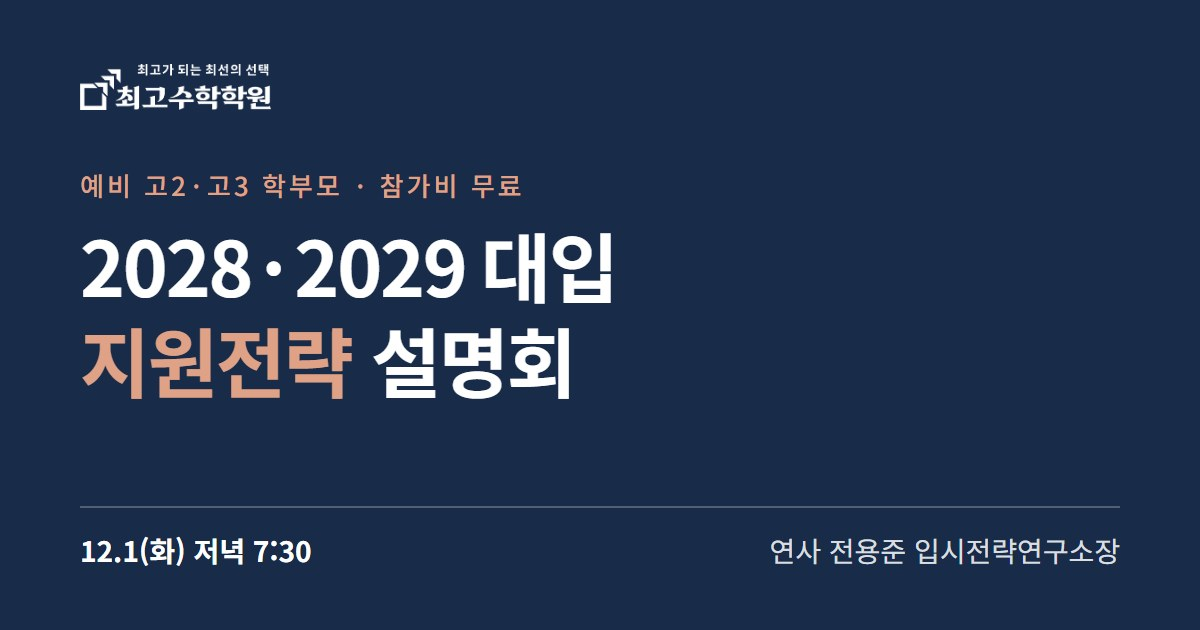
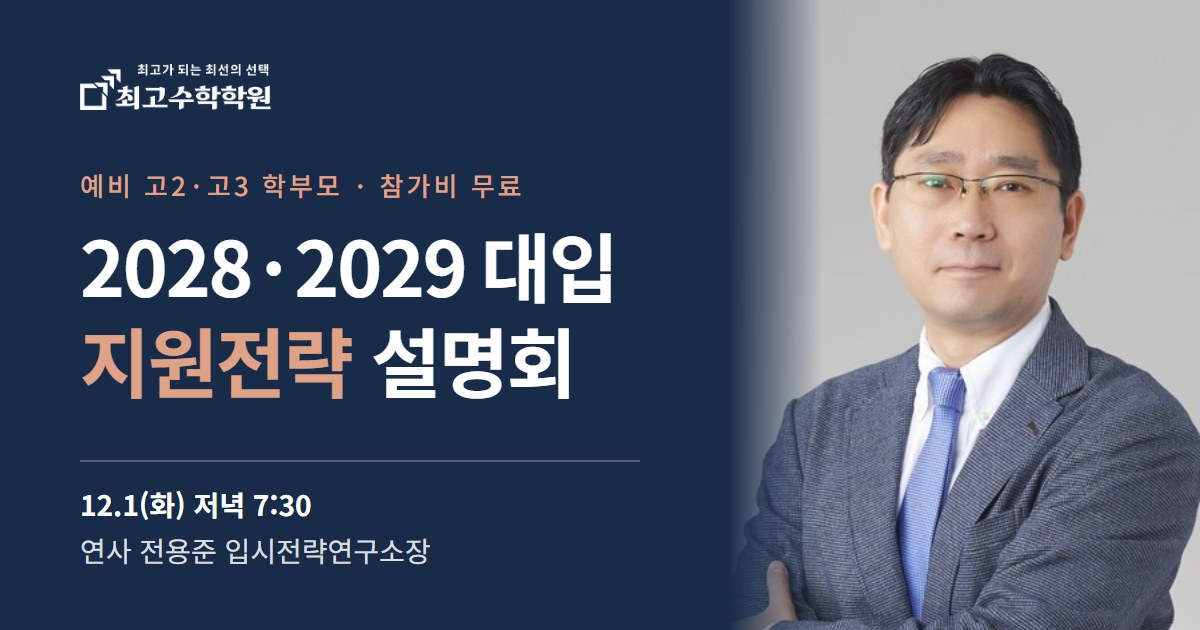
college-briefing: 연사 사진 카드·미리보기 이미지 추가

diff --git a/college-briefing/index.html b/college-briefing/index.html
@@ -9,7 +9,7 @@
 <meta property="og:title" content="2028·2029 대입지원전략 설명회 · 참석 신청">
 <meta property="og:description" content="예비 고2·고3 학부모 대상 · 12/1(화) 저녁 7:30 · 참가비 무료 · 송도 최고수학학원">
 <meta property="og:url" content="https://best-eight-gold.vercel.app/college-briefing/">
-<meta property="og:image" content="https://best-eight-gold.vercel.app/college-briefing/og.jpg?v=20261106">
+<meta property="og:image" content="https://best-eight-gold.vercel.app/college-briefing/og.jpg?v=20261106b">
 <meta property="og:image:width" content="1200">
 <meta property="og:image:height" content="630">
 <meta name="twitter:card" content="summary_large_image">
@@ -50,10 +50,16 @@ h2{font-size:21px;font-weight:700;letter-spacing:-.5px;margin-top:6px}
 .why p{font-size:14px;color:var(--sub);margin-top:4px}
 
 /* 연사 */
-.spk{margin-top:16px;border-top:1px solid var(--navy);border-bottom:1px solid var(--line);padding:18px 0}
-.spk .nm{font-size:20px;font-weight:700;letter-spacing:-.5px}
-.spk .nm span{font-size:14px;font-weight:500;color:var(--sub);margin-left:6px}
-.spk ul{list-style:none;margin-top:10px;font-size:14px}
+.spk{margin-top:16px}
+.spk .card{display:flex;align-items:stretch;background:var(--navy);color:#fff;overflow:hidden}
+.spk .txt{flex:1;min-width:0;padding:22px 0 20px 20px;display:flex;flex-direction:column;justify-content:flex-end}
+.spk .txt .role{font-size:13px;font-weight:500;color:var(--accent);letter-spacing:.5px;white-space:nowrap}
+.spk .nm{font-size:32px;font-weight:700;letter-spacing:-1px;line-height:1.2;margin-top:4px;white-space:nowrap}
+.spk .bar{width:28px;height:3px;background:var(--accent);margin-bottom:auto}
+.spk .txt p.s{font-size:13px;color:rgba(255,255,255,.7);margin-top:10px}
+.spk figure{width:44%;max-width:210px;flex-shrink:0;align-self:flex-end;line-height:0}
+.spk figure img{width:100%;height:auto;display:block;aspect-ratio:354/472;object-fit:cover;-webkit-mask-image:linear-gradient(to left,#000 82%,transparent);mask-image:linear-gradient(to left,#000 82%,transparent)}
+.spk ul{list-style:none;font-size:14px;border-bottom:1px solid var(--line);padding:14px 0}
 .spk li{display:flex;gap:10px;padding:3px 0}
 .spk li i{font-style:normal;flex-shrink:0;width:30px;font-size:12px;font-weight:700;color:var(--navy);background:var(--sky);text-align:center;height:22px;line-height:22px;margin-top:1px}
 
@@ -163,7 +169,15 @@ footer a{color:var(--mute)}
     <span class="k">02 / SPEAKER</span>
     <h2>연사 소개</h2>
     <div class="spk">
-      <p class="nm">전용준<span>입시전략연구소장</span></p>
+      <div class="card">
+        <div class="txt">
+          <span class="bar"></span>
+          <span class="role">입시전략연구소장</span>
+          <p class="nm">전용준</p>
+          <p class="s">2028·2029 대입,<br>대학별 전형 변화를 <span class="nw">짚어 드립니다</span></p>
+        </div>
+        <figure><img src="/college-briefing/speaker.jpg" alt="전용준 입시전략연구소장" width="354" height="472" loading="lazy"></figure>
+      </div>
       <ul>
         <li><i>現</i><span>대치명인 &amp; 목동PGA 입시전략연구소</span></li>
         <li><i>前</i><span>대치두각 &amp; 강남메가스터디 입시전략연구소</span></li>
